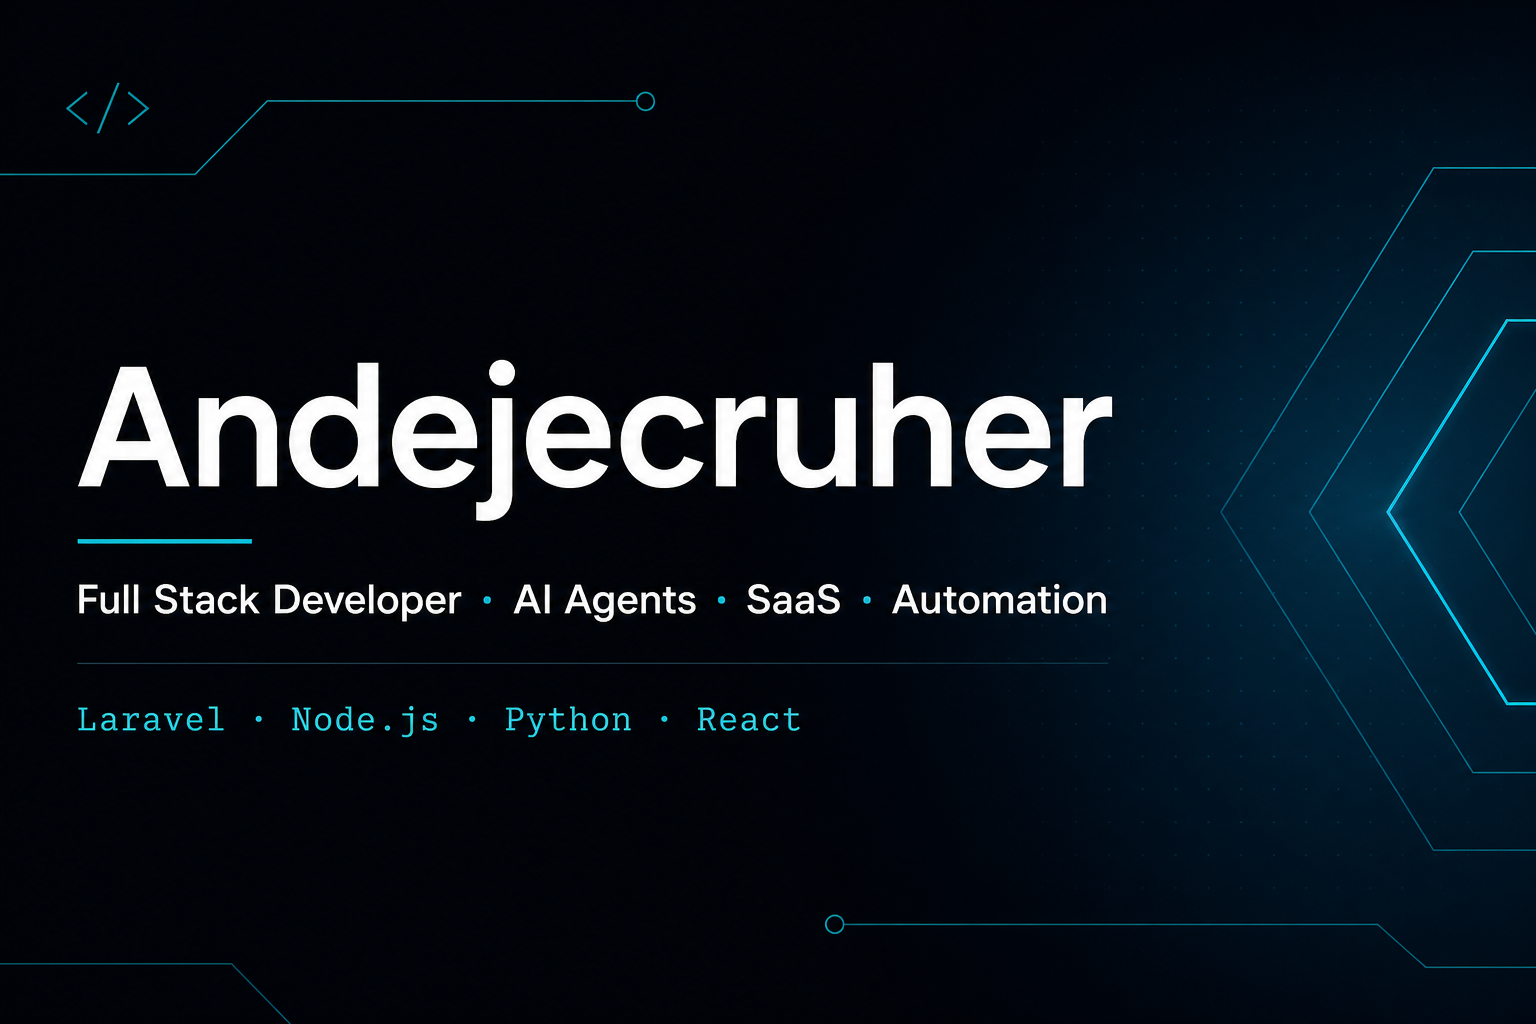
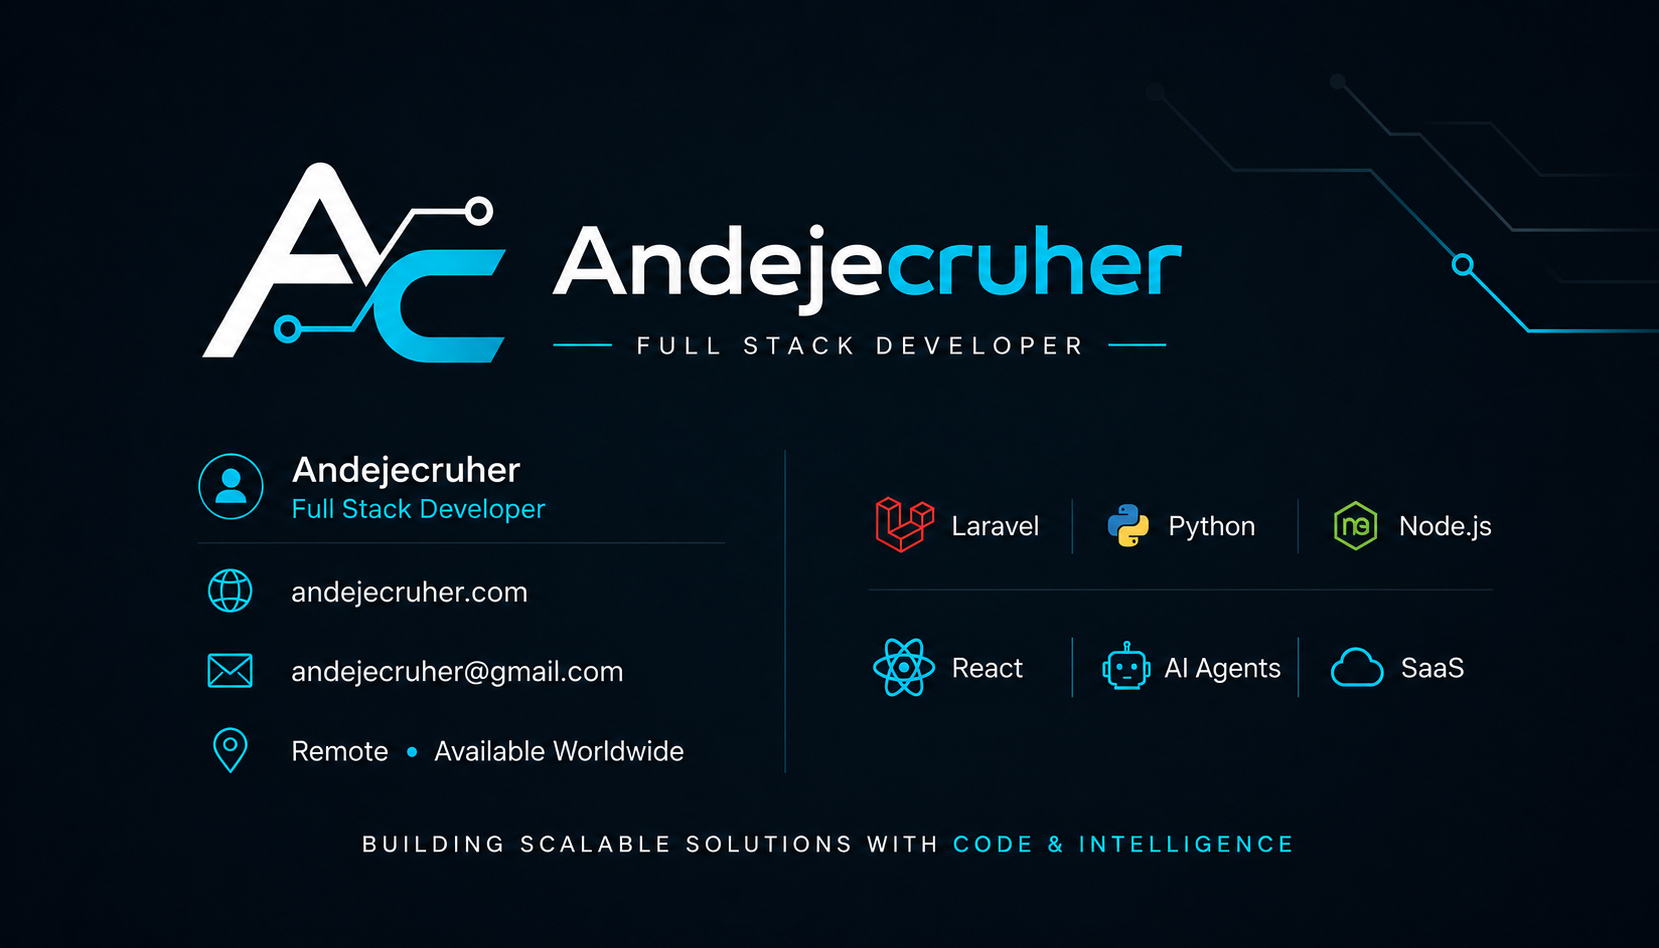
chore(seo): switch default social preview image to JPG.
Point SITE_SEO to og-image.jpg and update the bundled OG asset for lighter sharing previews.

diff --git a/src/seo/config.ts b/src/seo/config.ts
@@ -6,7 +6,7 @@ export const SITE_SEO = {
   defaultTitle: 'Andejecruher · Full Stack Developer',
   defaultDescription:
     'Full Stack Developer especializado en SaaS, AI Agents, Automatización e Integraciones. Laravel · Node.js · Python · React.',
-  defaultSocialImage: '/og-image.png',
+  defaultSocialImage: '/og-image.jpg',
   defaultSocialImageAlt: 'Andejecruher — Full Stack Developer, SaaS, AI Agents y Automatización',
   twitterSite: '@Andejecruher',
   twitterCreator: '@Andejecruher',